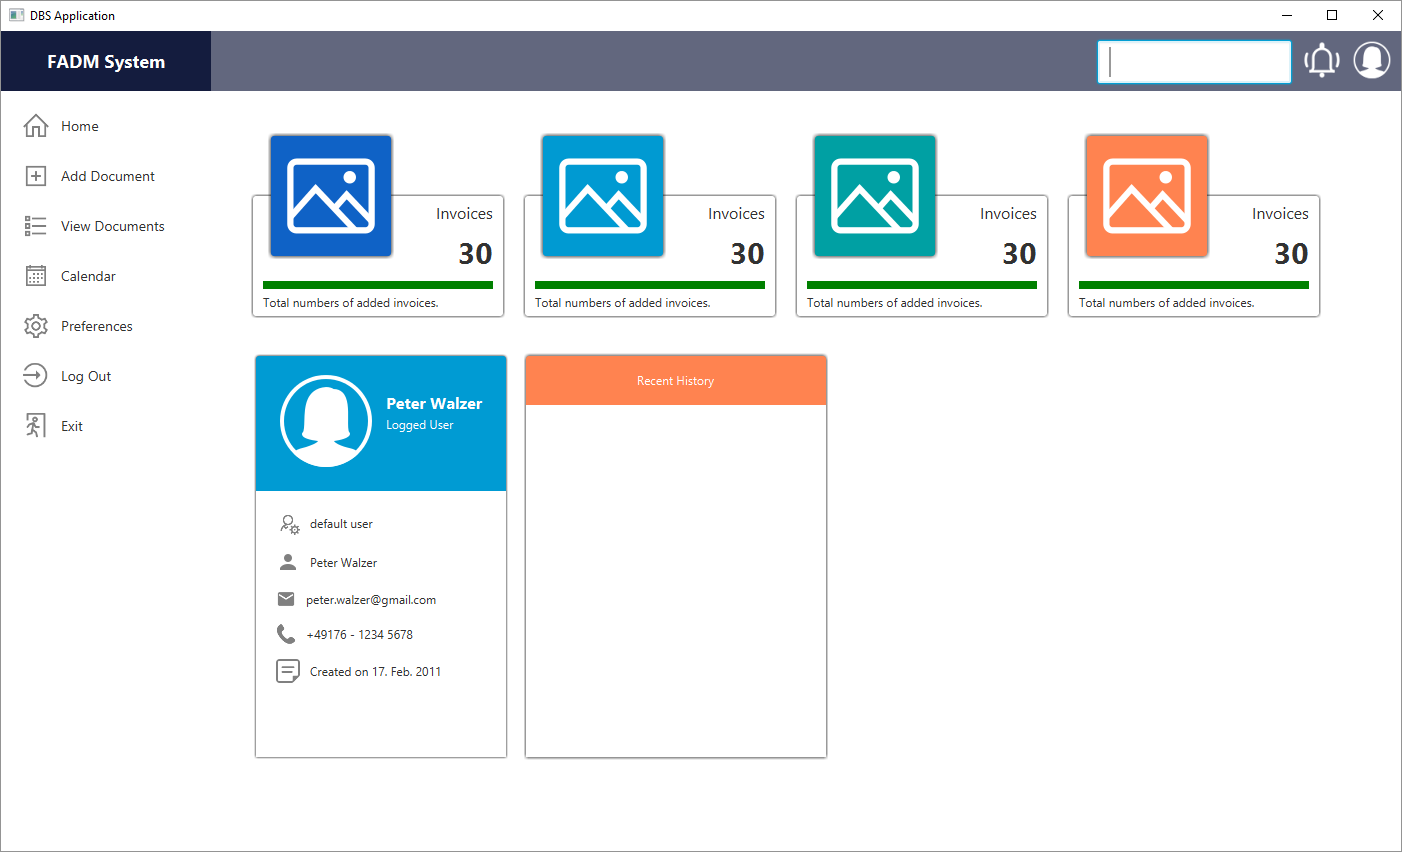
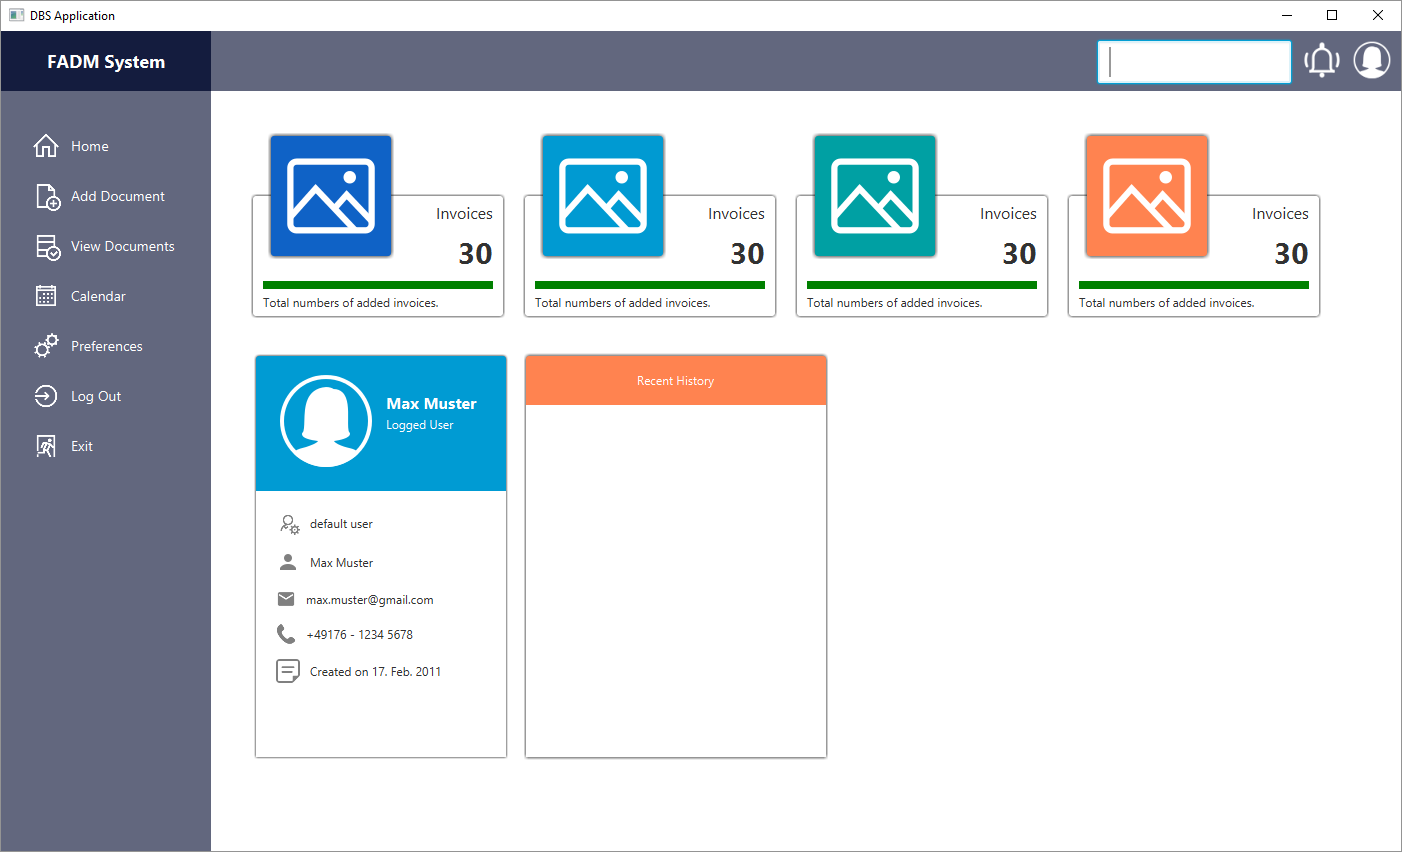
DMS-00030: UI improvments

diff --git a/de.dc.spring.fx.dms/src/main/resources/de/dc/spring/fx/dms/css/DMSMain.css b/de.dc.spring.fx.dms/src/main/resources/de/dc/spring/fx/dms/css/DMSMain.css
@@ -10,7 +10,7 @@
 }
 
 .left-panel-item{
-	-fx-background-color: white;
+	-fx-background-color: #62677E;
 }
 
 .left-panel-item:hover{
@@ -24,6 +24,7 @@
 
 .left-panel-label{
 	-fx-font-size: 14;
+	-fx-text-fill: white;
 }
 
 .left-title{
